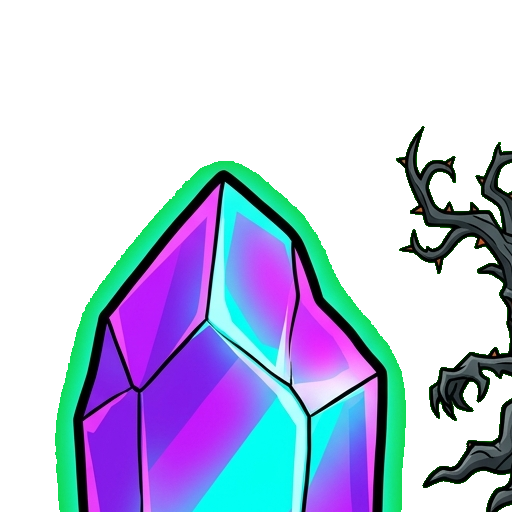
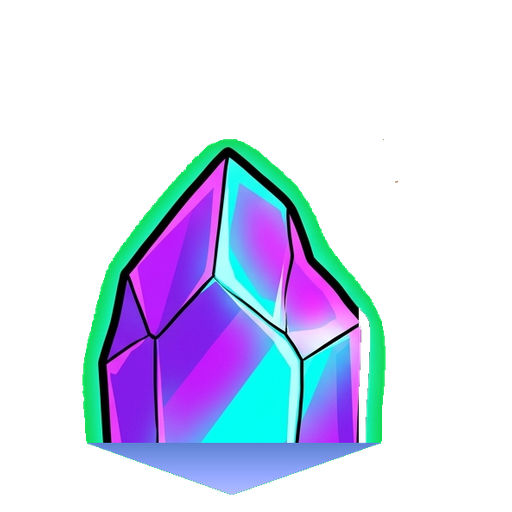
feat: gem crack visuals, orange drops, enemy floor wrap, updated assets
- Gem shows progressive crack Graphics overlay (3 stages) and red tint
  flash each time a bug steals from it
- Orange projectiles drop from sky on a random timer and damage Tim
  with an orange tint to indicate the slow-burn effect
- Enemies now wrap back to spawn if they slip below the floor
- Updated gem.png and tree.png assets

diff --git a/src/scenes/Game.js b/src/scenes/Game.js
@@ -1,4 +1,4 @@
-import { W, H, HUD_HEIGHT, FLOOR_Y, GEM_X, GEM_Y, DEPTH, SPAWN_Y, BETWEEN_WAVES_DELAY } from '../constants.js';
+import { W, H, HUD_HEIGHT, FLOOR_Y, GEM_X, GEM_Y, DEPTH, SPAWN_Y, BETWEEN_WAVES_DELAY, ORANGE_SPEED, ORANGE_DROP_MIN, ORANGE_DROP_MAX } from '../constants.js';
 import { Tim } from '../entities/Tim.js';
 import { Scout } from '../entities/Scout.js';
 import { Brute } from '../entities/Brute.js';
@@ -36,6 +36,7 @@ export class Game extends Phaser.Scene {
     this._buildHUD();
     this._buildRestartButton();
     this._startWave();
+    this._scheduleOrangeDrop();
 
     // Re-focus canvas on click so keyboard never stops working
     this.input.on('pointerdown', () => this.sys.game.canvas.focus());
@@ -143,6 +144,7 @@ export class Game extends Phaser.Scene {
     this.enemies = this.physics.add.group();
     this.attackHitboxes = this.physics.add.group();
     this.laserBolts = this.physics.add.group();
+    this.oranges = this.physics.add.group();
 
     // Destroy bolts that exit the screen
     this.physics.world.on('worldbounds', (body) => {
@@ -274,10 +276,38 @@ export class Game extends Phaser.Scene {
     });
   }
 
+  _scheduleOrangeDrop() {
+    const delay = Phaser.Math.Between(ORANGE_DROP_MIN, ORANGE_DROP_MAX);
+    this.time.delayedCall(delay, () => {
+      this._dropOrange();
+      this._scheduleOrangeDrop();
+    });
+  }
+
+  _dropOrange() {
+    const x = Phaser.Math.Between(40, W - 40);
+    const orange = this.oranges.create(x, HUD_HEIGHT + 10, 'orange');
+    orange.setDisplaySize(40, 40);
+    orange.setDepth(DEPTH.HITBOX);
+    orange.setVelocityY(ORANGE_SPEED);
+    orange.body.setAllowGravity(false);
+    orange.body.setCircle(32); // full 64px texture radius
+
+    this.physics.add.overlap(orange, this.tim.sprite, () => {
+      if (!orange.active) return;
+      orange.destroy();
+      this.tim.takeOrangeDamage();
+      this.cameras.main.shake(180, 0.008);
+    });
+  }
+
   update(time, delta) {
     this.tim.update();
     this.enemies.getChildren().forEach(e => {
         if (e && e.active) e.update(time, delta);
+    });
+    this.oranges.getChildren().forEach(o => {
+      if (o.active && o.y > H + 40) o.destroy();
     });
   }
 }

diff --git a/src/entities/Tim.js b/src/entities/Tim.js
@@ -3,6 +3,7 @@ import {
   ATTACK_COOLDOWN, SLAM_COOLDOWN, ATTACK_DAMAGE, SLAM_DAMAGE,
   ATTACK_DURATION, SLAM_DURATION,
   LASER_DAMAGE, LASER_COOLDOWN, LASER_SPEED, LASER_BURST_COUNT, LASER_BURST_INTERVAL,
+  ORANGE_DAMAGE, ORANGE_TINT_DURATION,
 } from '../constants.js';
 
 export class Tim {
@@ -26,6 +27,9 @@ export class Tim {
     this._keyA = scene.input.keyboard.addKey(Phaser.Input.Keyboard.KeyCodes.A);
     this._keyS = scene.input.keyboard.addKey(Phaser.Input.Keyboard.KeyCodes.S);
     this._keySpace = scene.input.keyboard.addKey(Phaser.Input.Keyboard.KeyCodes.SPACE);
+
+    this._orangeActive = false;
+    this._orangeTimer = null;
   }
 
   get x() { return this.sprite.x; }
@@ -172,7 +176,28 @@ export class Tim {
   takeDamage() {
     this.hp = Math.max(0, this.hp - 1);
     this.sprite.setTint(0xff0000);
-    this.scene.time.delayedCall(150, () => { if (this.sprite.active) this.sprite.clearTint(); });
+    this.scene.time.delayedCall(150, () => {
+      if (!this.sprite.active) return;
+      this._orangeActive ? this.sprite.setTint(0xff8800) : this.sprite.clearTint();
+    });
+    this.scene.updatePlayerHealth(this.hp);
+    if (this.hp <= 0) {
+      this.scene.gameOver();
+    }
+  }
+
+  takeOrangeDamage() {
+    this.hp = Math.max(0, this.hp - ORANGE_DAMAGE);
+    this._orangeActive = true;
+    this.sprite.setTint(0xff8800);
+
+    if (this._orangeTimer) this._orangeTimer.remove();
+    this._orangeTimer = this.scene.time.delayedCall(ORANGE_TINT_DURATION, () => {
+      this._orangeActive = false;
+      this._orangeTimer = null;
+      if (this.sprite.active) this.sprite.clearTint();
+    });
+
     this.scene.updatePlayerHealth(this.hp);
     if (this.hp <= 0) {
       this.scene.gameOver();

diff --git a/src/entities/Enemy.js b/src/entities/Enemy.js
@@ -1,4 +1,4 @@
-import { DEPTH, GEM_X, GEM_Y, W, H } from '../constants.js';
+import { DEPTH, GEM_X, GEM_Y, W, H, SPAWN_Y, FLOOR_Y } from '../constants.js';
 
 export class Enemy extends Phaser.Physics.Arcade.Sprite {
   constructor(scene, x, y, texture, config) {
@@ -31,6 +31,13 @@ export class Enemy extends Phaser.Physics.Arcade.Sprite {
     } else {
       this.stop();
       this.setFrame(0);
+    }
+
+    // Wrap back to top if the enemy slips below the play area
+    if (this.state !== 'ESCAPE' && this.y > FLOOR_Y + 40) {
+      this.setPosition(Phaser.Math.Between(40, W - 40), SPAWN_Y);
+      this.body.setVelocity(0, 0);
+      this.state = 'WALK';
     }
 
     if (this.state === 'WALK') {

diff --git a/src/scenes/Boot.js b/src/scenes/Boot.js
@@ -12,6 +12,19 @@ export class Boot extends Phaser.Scene {
   }
 
   create() {
+    // Generate orange texture procedurally
+    const og = this.make.graphics({ x: 0, y: 0, add: false });
+    og.fillStyle(0xff7700, 1);
+    og.fillCircle(32, 32, 30);
+    og.fillStyle(0xffaa33, 0.6);
+    og.fillCircle(22, 20, 11);
+    og.fillStyle(0x33aa00, 1);
+    og.fillRect(30, 2, 5, 10);
+    og.fillStyle(0x226600, 0.8);
+    og.fillRect(32, 2, 8, 4);
+    og.generateTexture('orange', 64, 64);
+    og.destroy();
+
     this.anims.create({
       key: 'tim-walk',
       frames: this.anims.generateFrameNumbers('tim', { start: 0, end: 3 }),

diff --git a/src/constants.js b/src/constants.js
@@ -20,3 +20,9 @@ export const LASER_COOLDOWN      = 3000;
 export const LASER_SPEED         = 700;
 export const LASER_BURST_COUNT   = 3;
 export const LASER_BURST_INTERVAL = 100;
+
+export const ORANGE_DAMAGE         = 2;
+export const ORANGE_TINT_DURATION  = 3000;
+export const ORANGE_SPEED          = 220;
+export const ORANGE_DROP_MIN       = 6000;
+export const ORANGE_DROP_MAX       = 14000;
